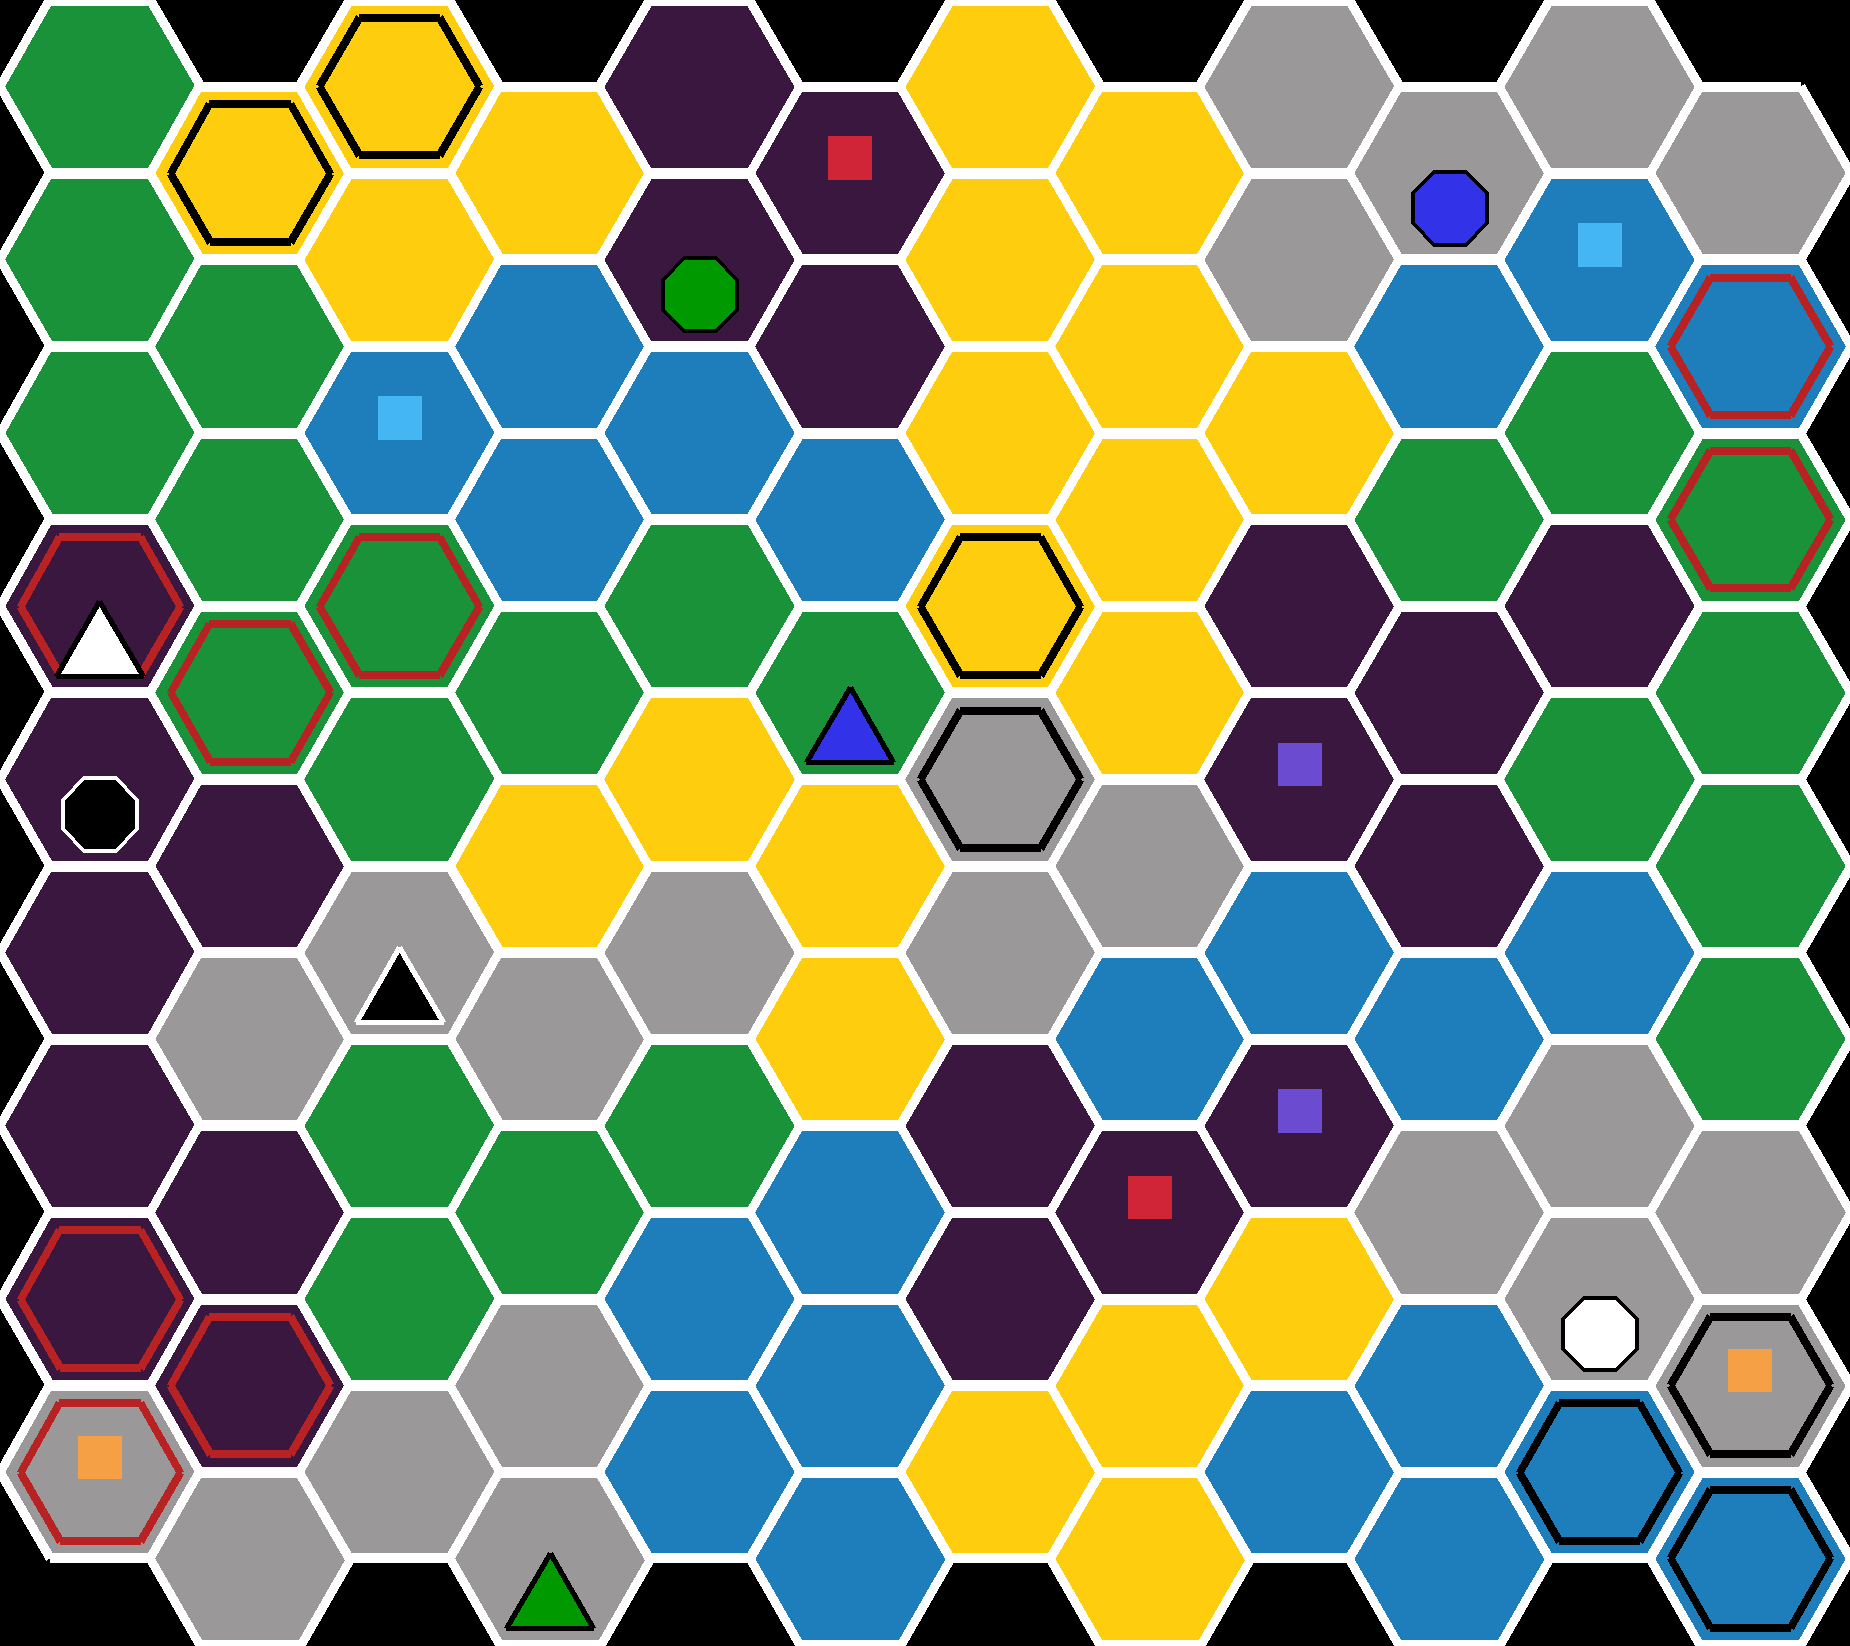
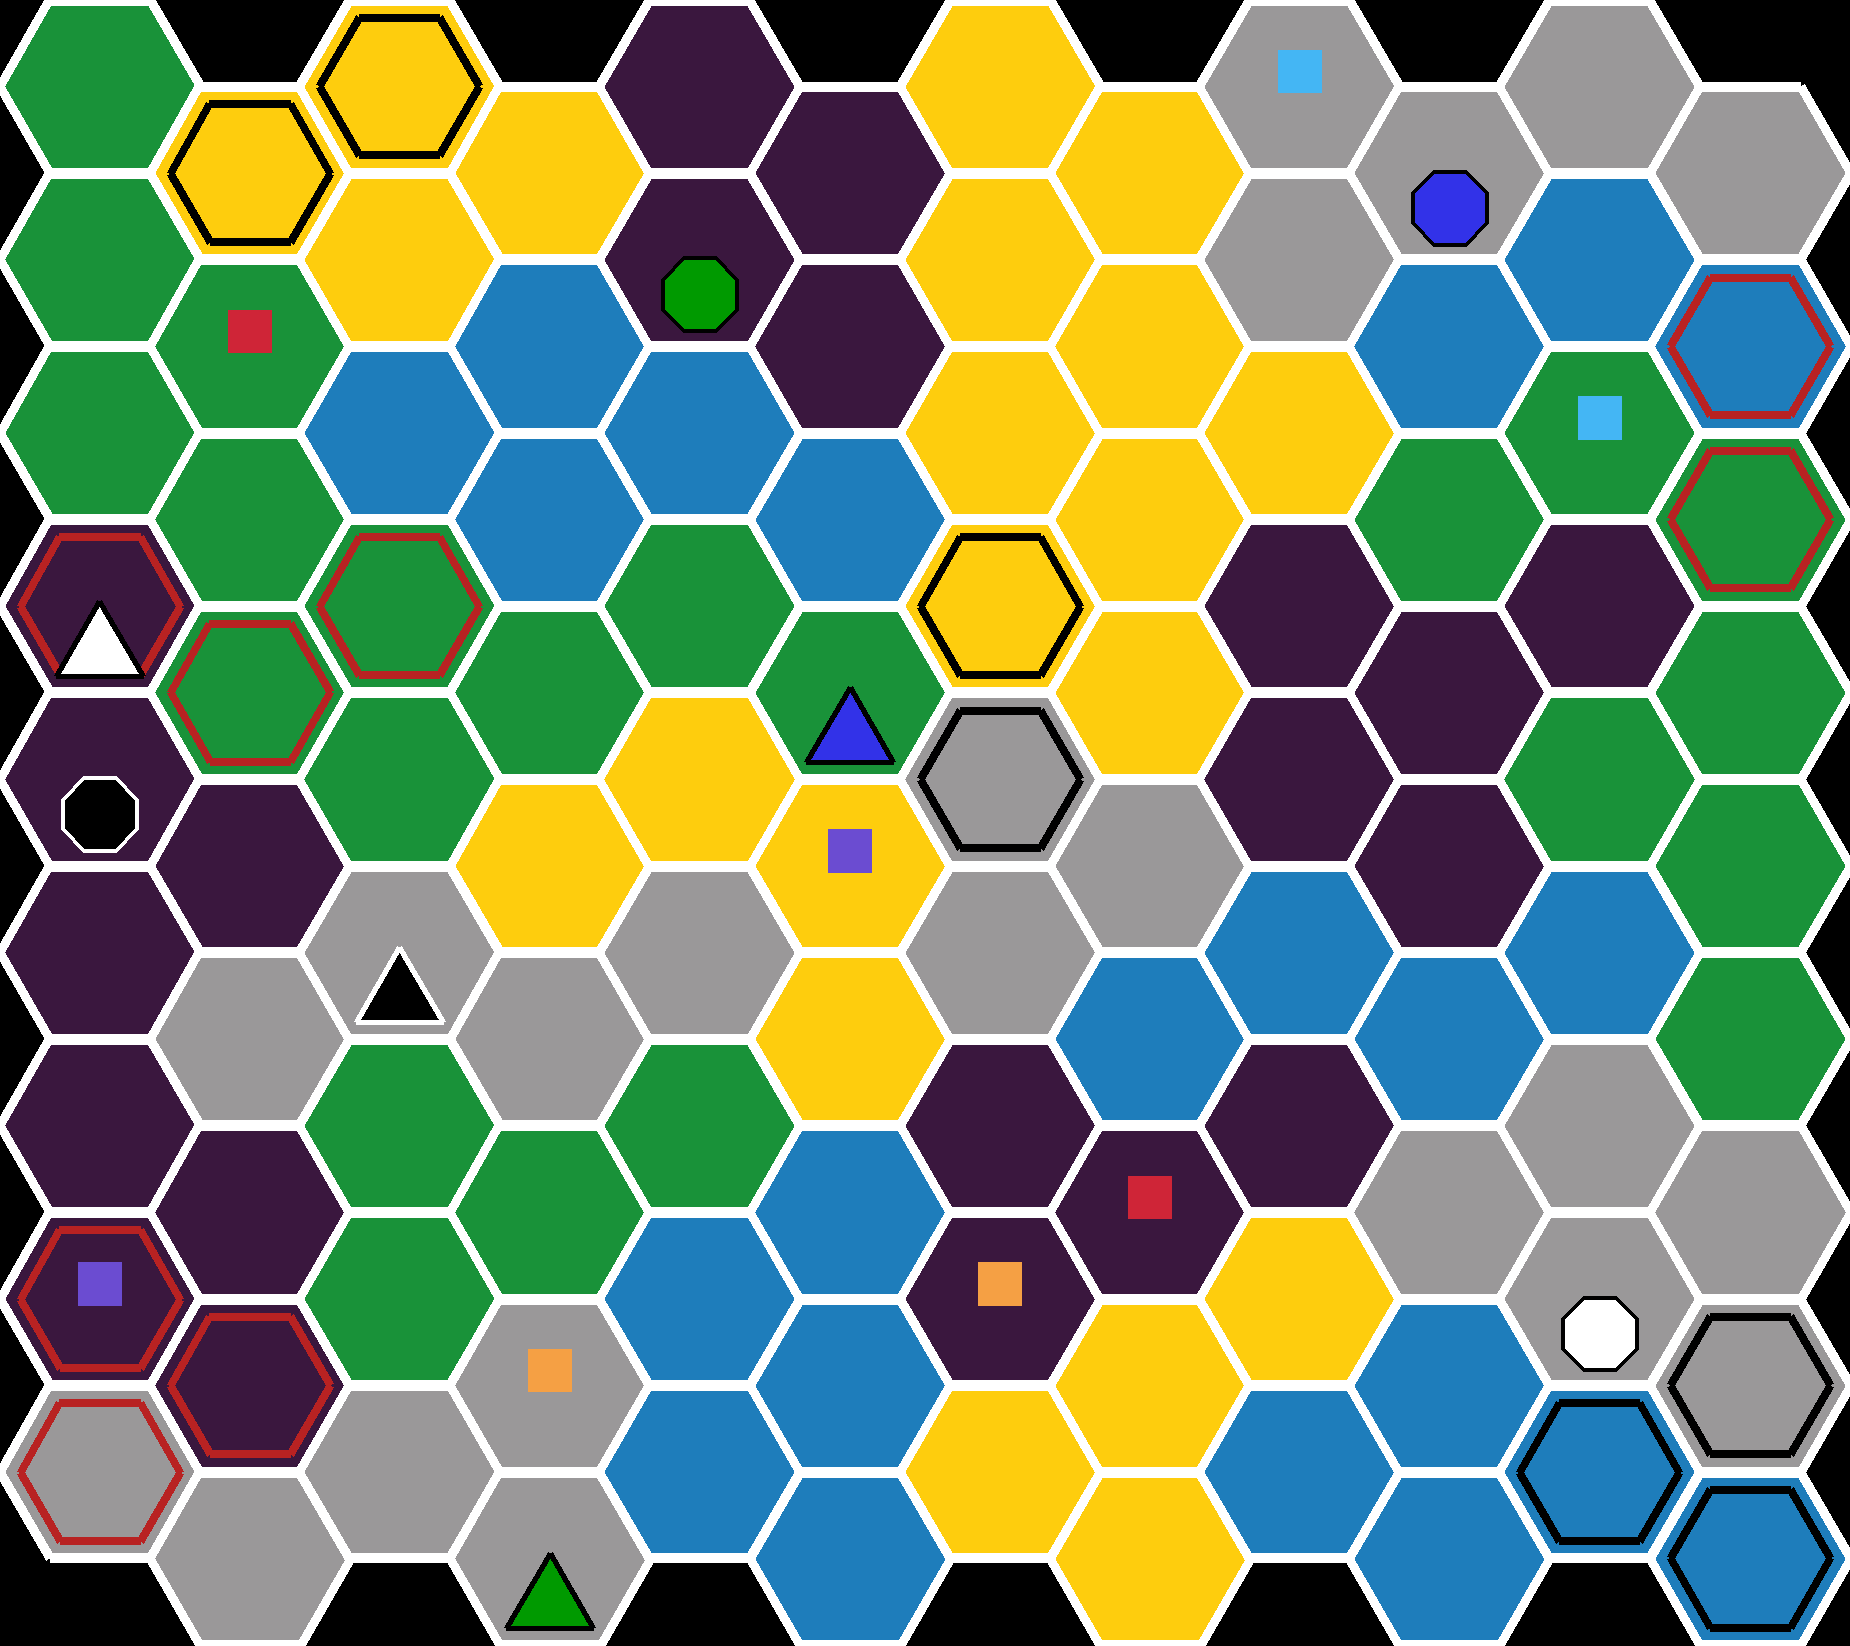
Players can now make defensive plays.

diff --git a/deduction.py b/deduction.py
@@ -1,6 +1,6 @@
 """Deduction logic and classes for maintaining/updating game state."""
 
-
+from collections import defaultdict
 import itertools
 import random
 
@@ -180,9 +180,6 @@ class Player:
             if isinstance(known_clue, str):
                 known_clue = Clue(known_clue)
             if known_clue not in self.clues:
-                print('known:', known_clue)
-                for clue in self.clues:
-                    print(clue)
                 raise ValueError("known_clue must be an element of clues")
         self.known_clue = known_clue
 
@@ -227,13 +224,15 @@ class Player:
 
         self.restrict_clues()
 
-    def play_random(self, clue_type=False):
-        """Play a random, correct piece of the specified type.
+    def play(self, play_type, choice='random'):
+        """Play a correct piece of the specified type.
         If the player's clue is not known this should cause an error.
 
         Args:
-            clue_type: Boolean to determine whether the played piece
+            play_type: Boolean to determine whether the played piece
                 should be positive or negative.
+            choice: A string specifying how to choose where to play.
+                Options are 'random', 'cluecount'.
 
         Raises:
             UnknownClueError: If the player's clue is not known, then
@@ -244,7 +243,7 @@ class Player:
             raise UnknownClueError('Cannot play without known clue.')
 
         region = self.clues[self.known_clue]
-        if not clue_type:
+        if not play_type:
             region = self.game.tile_set - region
 
         possible_tiles = [
@@ -257,15 +256,36 @@ class Player:
         if not possible_tiles:
             raise NoLegalPlayError
 
-        play = random.choice(possible_tiles)
-        self.game.board.gethex(play).players[self.number] = clue_type
+        play_func = {
+            'random': self._play_random,
+            'cluecount': self._play_clue_count
+        }[choice]
+        play = play_func(possible_tiles, play_type)
 
-        if clue_type:
+        self.game.board.gethex(play).players[self.number] = play_type
+        if play_type:
             self.positives.add(play)
         else:
             self.negatives.add(play)
 
         self.restrict_clues()
+
+    def _play_random(self, possible_tiles, play_type):
+        """Make a random play."""
+
+        return random.choice(possible_tiles)
+
+    def _play_clue_count(self, possible_tiles, play_type):
+        """Make a play attempting to maximize the number of remaining
+        possible clues."""
+
+        clues_remaining = defaultdict(int)
+        for tile in possible_tiles:
+            for clue, region in self.clues.items():
+                if play_type == (tile in region):
+                    clues_remaining[tile] += 1
+
+        return max(clues_remaining, key=lambda t: clues_remaining[t])
 
 
 class Clue:

diff --git a/tests/test_deduction.py b/tests/test_deduction.py
@@ -42,11 +42,11 @@ def test_random_plays(board_known):
     # Make random plays
     for _ in range(2):
         for player in game.players:
-            player.play_random()
+            player.play(False, 'random')
 
     # Make random positive plays
     for player in game.players:
-        player.play_random(True)
+        player.play(True, 'random')
 
     assert len([play for play in player.negatives for player in game.players]) == 8
     assert len([play for play in player.positives for player in game.players]) == 4
@@ -77,3 +77,25 @@ def test_solution_with_plays(game_with_plays):
     assert len(set(observer_solutions)) < 100
     assert len(game.solutions(0)) < len(observer_solutions)
     assert len(game.solutions(0, 1, 2, 3)) == 1
+
+
+@pytest.mark.deduce
+def test_considered_play_better_than_random(board_known):
+    """Check that optimized plays result in better outcomes than random ones."""
+
+    board, clues, _ = board_known
+
+    game1 = deduction.Game(board, 4, known_clues=clues)
+    game2 = deduction.Game(board, 4, known_clues=clues)
+
+    for _ in range(2):
+        for player in game1.players:
+            player.play(False, 'random')
+
+        for player in game2.players:
+            player.play(False, 'cluecount')
+
+    observer1 = game1.solutions()
+    observer2 = game2.solutions()
+
+    assert len(observer1) < len(observer2)

diff --git a/hextools.py b/hextools.py
@@ -19,10 +19,6 @@ OATRANSFORM = np.array([[2 / _ROOT3, 0], [-1 / _ROOT3, 1]])
 HSTRANSFORM = np.array([[0, 2], [2, -1]])
 
 
-class GridMutationError(Exception):
-    pass
-
-
 class HexGrid:
     """A rectangular grid of hexagons.
 
@@ -241,5 +237,9 @@ def expand(region, radius):
 
         reg_set |= new_set
         recent = new_set - recent
-        
+
     return reg_set
+
+
+class GridMutationError(Exception):
+    pass

diff --git a/tests/conftest.py b/tests/conftest.py
@@ -49,6 +49,6 @@ def game_with_plays(board_known):
 
     for _ in range(2):
         for player in game.players:
-            player.play_random(False)
+            player.play(False, 'random')
 
     return game
